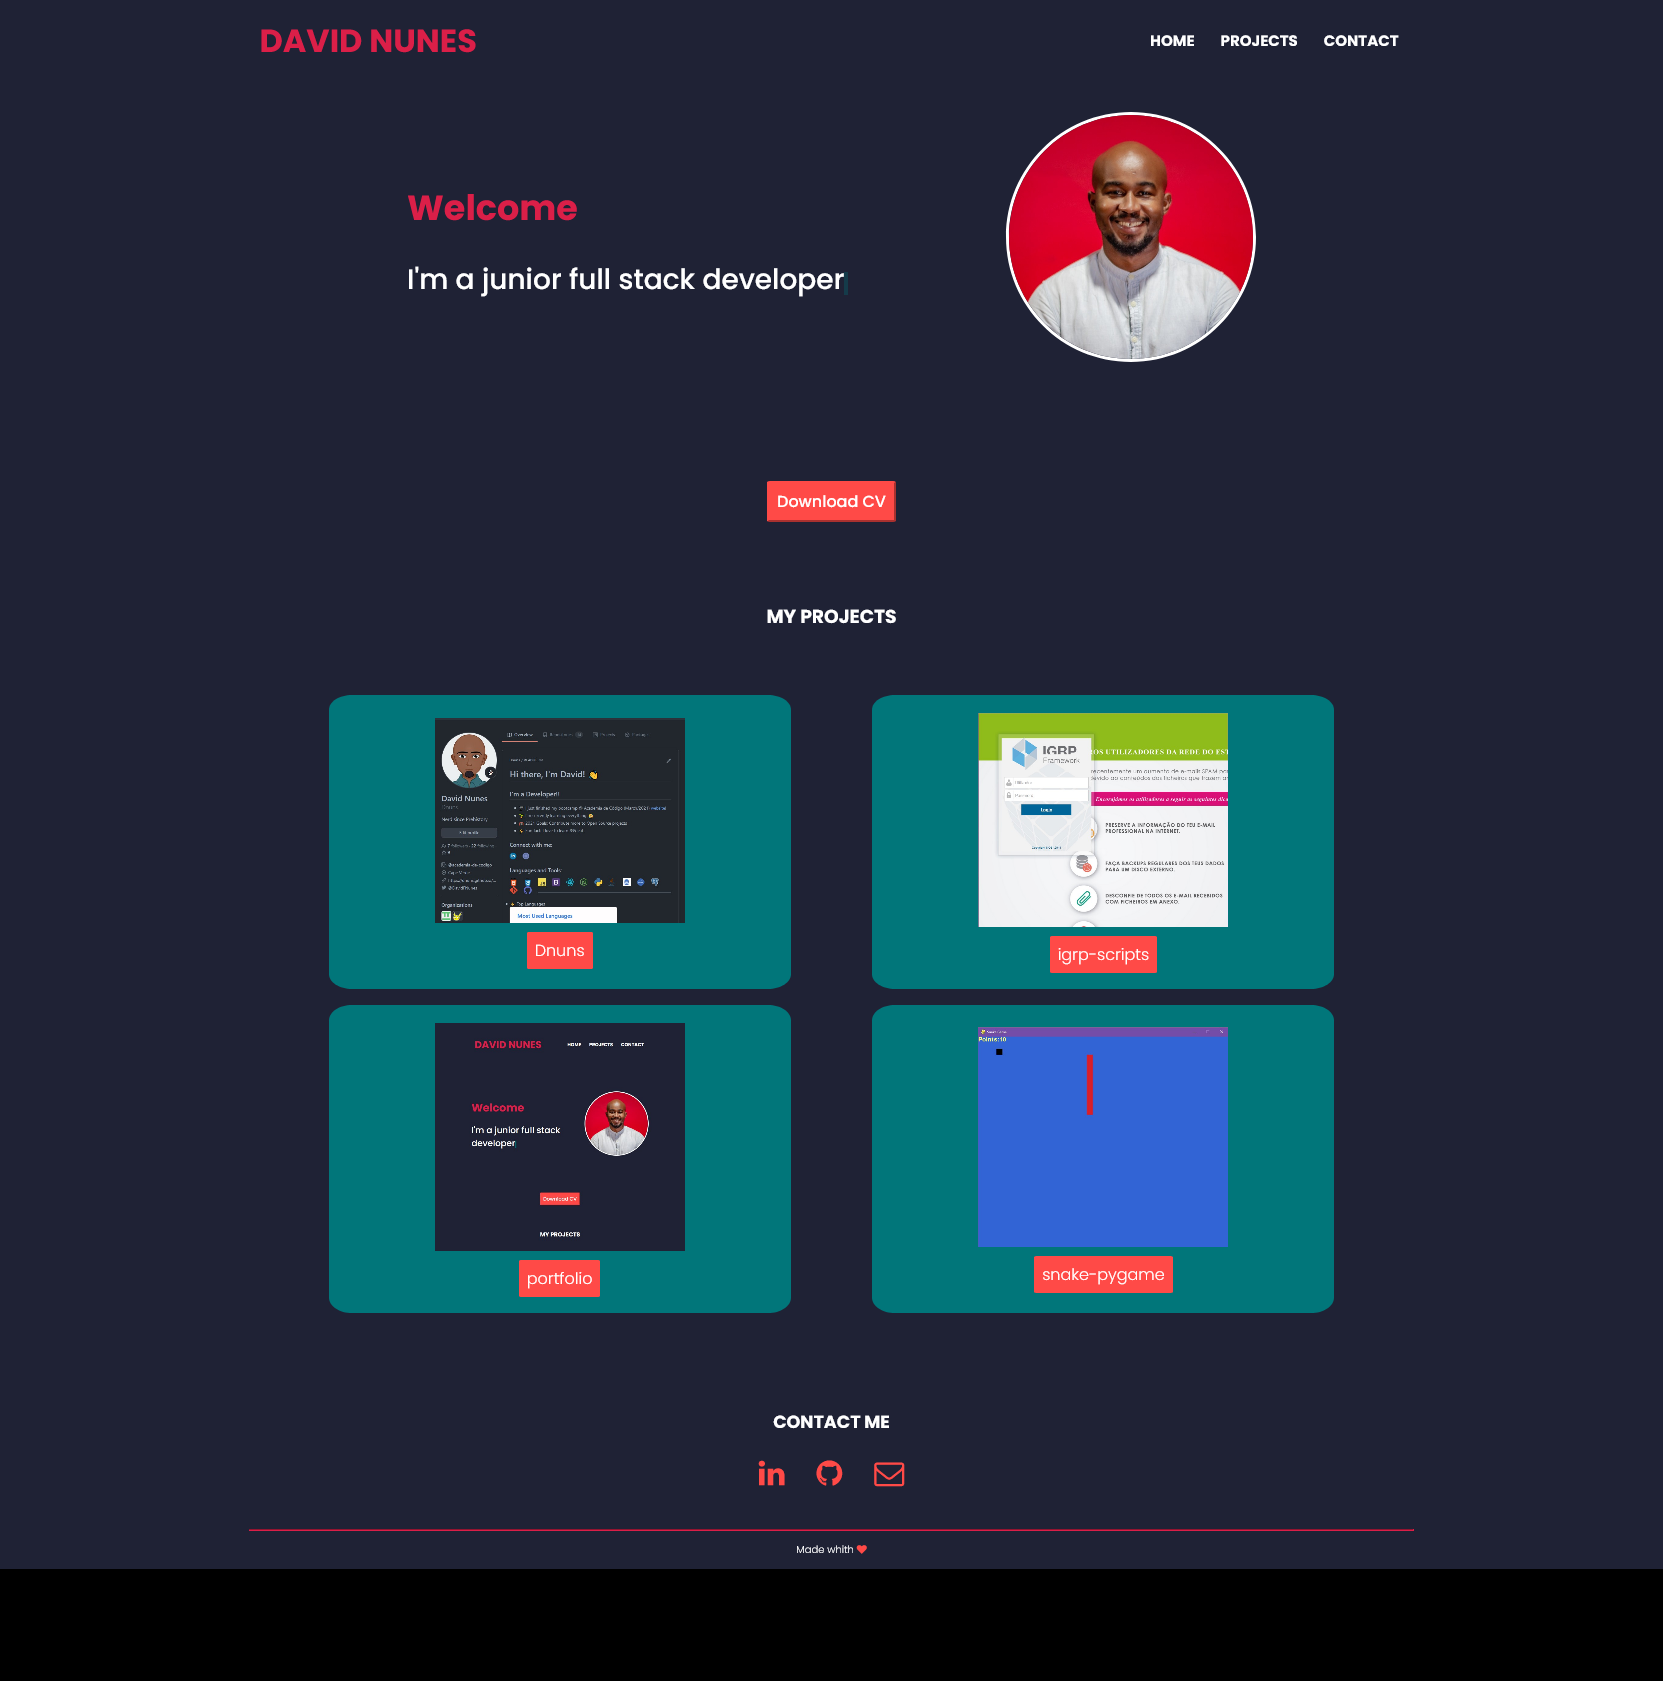
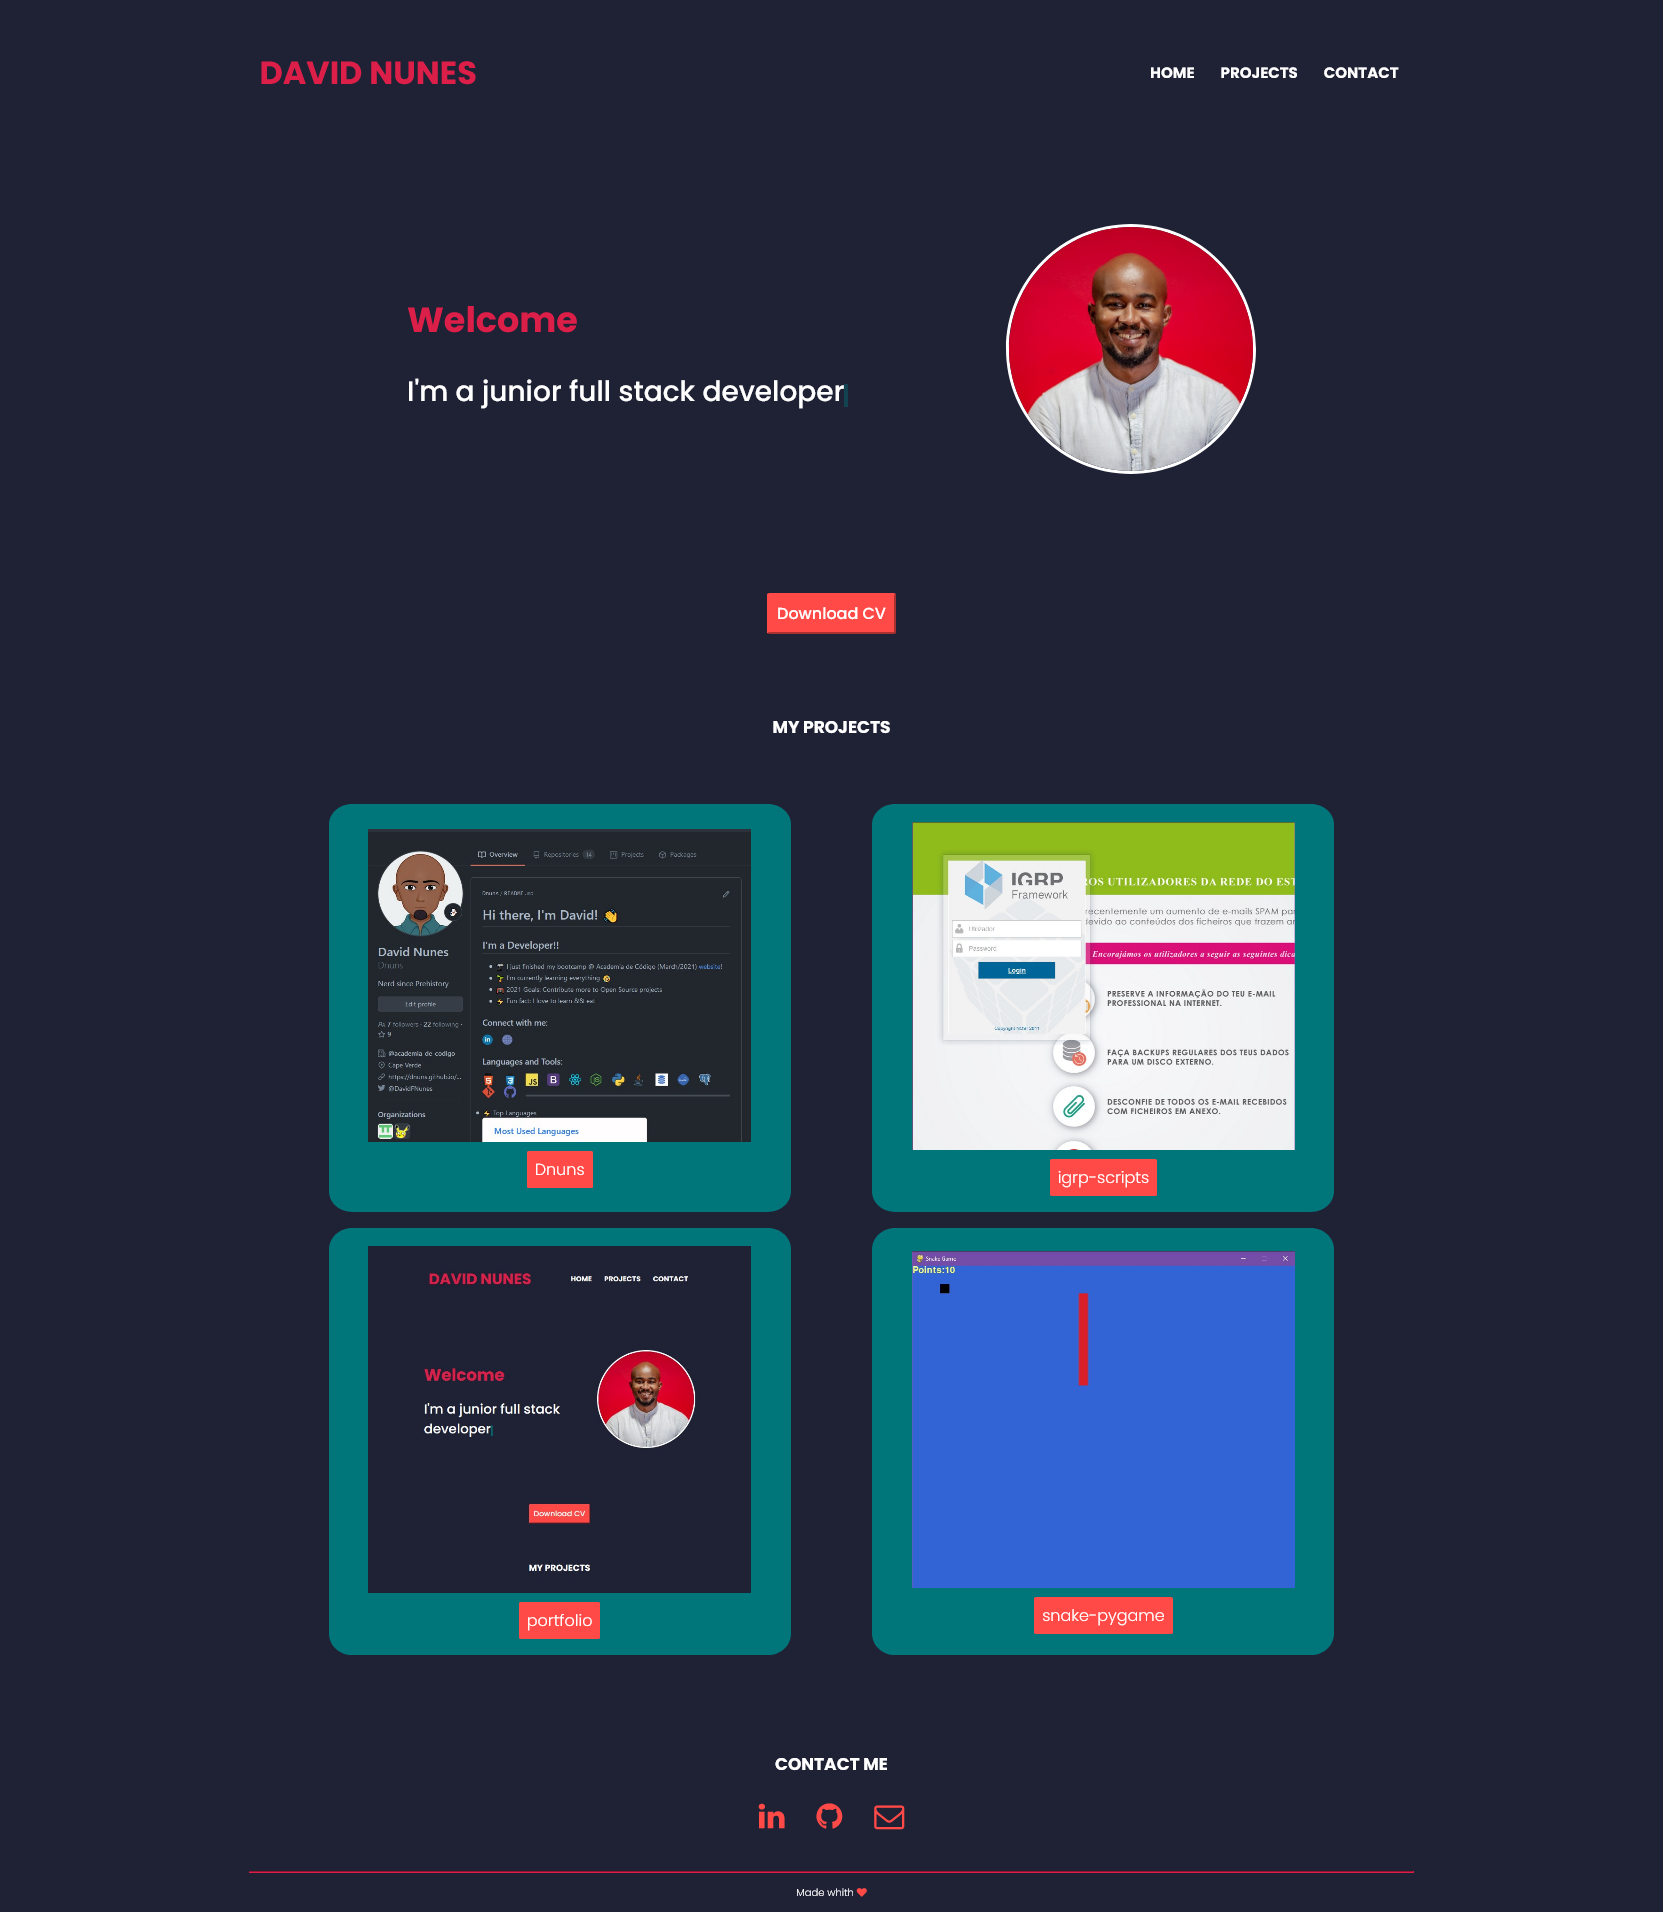
update javascrip

diff --git a/script.js b/script.js
@@ -1,7 +1,3 @@
-//stick navbar
-
-window.onscroll = function() {navPositionFixed()};
-
 // Get the navbar
 let navbar = document.getElementsByClassName('nav-items')[0];
 // Get the offset position of the navbar
@@ -16,8 +12,10 @@ function navPositionFixed() {
   }
 }
 
-//btn-mobile toogle
+//stick navbar
+window.onscroll = function() {navPositionFixed()};
 
+//btn-mobile toogle
 const menuMobile = document.getElementsByClassName('fa-bars')[0];
 
 const nav = document.getElementsByClassName('menu-items')[0];
@@ -27,18 +25,16 @@ menuMobile.addEventListener('click', () => {
 });
 
 //menu toogle
-
 nav.addEventListener('click', () => {
     nav.classList.toggle('active');
 });
 
 //typing effect
-
 let i = 0, welcomeText;
 
 welcomeText = "I'm a junior full stack developer" ;
 
-function typing(){   
+(function typing(){   
 
     if(i < welcomeText.length){
 
@@ -49,13 +45,10 @@ function typing(){
 
     setTimeout(typing,50);
 
-}
-
-typing();
+})();
 
 
-//Populate whith Github api
-
+//Populate whith Github API
 function fetchRepos(){
   
   let user = 'Dnuns';
@@ -83,3 +76,5 @@ function fetchRepos(){
   }); 
 
 }
+
+window.onload = function() {fetchRepos()};

diff --git a/index.html b/index.html
@@ -9,12 +9,12 @@
     <link rel="stylesheet" href="./style.css">
     <link rel="preconnect" href="https://fonts.gstatic.com">
     <link href="https://fonts.googleapis.com/css2?family=Poppins:wght@300;500;700&display=swap" rel="stylesheet">
-    <link rel="stylesheet preload" as="font"  href="./font-awesome/css/font-awesome.css">
+    <link rel="stylesheet preload" href="./font-awesome/css/font-awesome.css" as="style">
     <link rel="shortcut icon" type="image/x-icon" href="./resources/favicon.ico">
     <title>David's Personal Portifolio</title>
 </head>
 
-<body  onload="fetchRepos()">
+<body>
 
     <header>
 
@@ -68,7 +68,7 @@
     <section id="project-section" class="project-section">
 
         <div>
-            <h3>MY PROJECTS</h3>
+            <h2>MY PROJECTS</h2>
         </div>
 
         <div class="projects">
@@ -81,7 +81,7 @@
     <section id="contact-section" class="contact-section">
 
         <div>
-            <h3>CONTACT ME</h3>
+            <h2>CONTACT ME</h2>
         </div>
         <div class="ct-link">
 

diff --git a/style.css b/style.css
@@ -195,6 +195,10 @@ li a {
     margin: auto;
 }
 
+.project-section h2{
+    font-size: 17px;
+}
+
 .projects{
     margin-top: 3rem;
     margin-bottom: 1rem;
@@ -267,8 +271,11 @@ li a {
     gap: 1rem;
     align-items: center;
     justify-content: center;
-    font-size: 15px;;
     font-weight: bolder;
+}
+
+.contact-section h2 {
+    font-size: 17px;
 }
 
 .ct-link{
@@ -419,6 +426,10 @@ li a {
     font-size: .7rem;
 }
 
+.project-section h2{
+    font-size: 12px;
+}
+
 .projects{
     margin-top: 1rem;
     display: grid;
@@ -441,6 +452,10 @@ li a {
 /* Contact section*/
 .contact-section{
     font-size: .7rem;
+}
+
+.contact-section h2 {
+    font-size: 12px;
 }
 
 .ct-link{

diff --git a/README.md b/README.md
@@ -18,6 +18,7 @@ This project was created in order to practice my skills with HTML, CSS and javaS
 
 ![portfolio desktop screenshot](readme_resources/portfolio_fPm.png)
 
+![portfolio desktop screenshot](readme_resources/seo.jpg)
   
 ## Author
 
